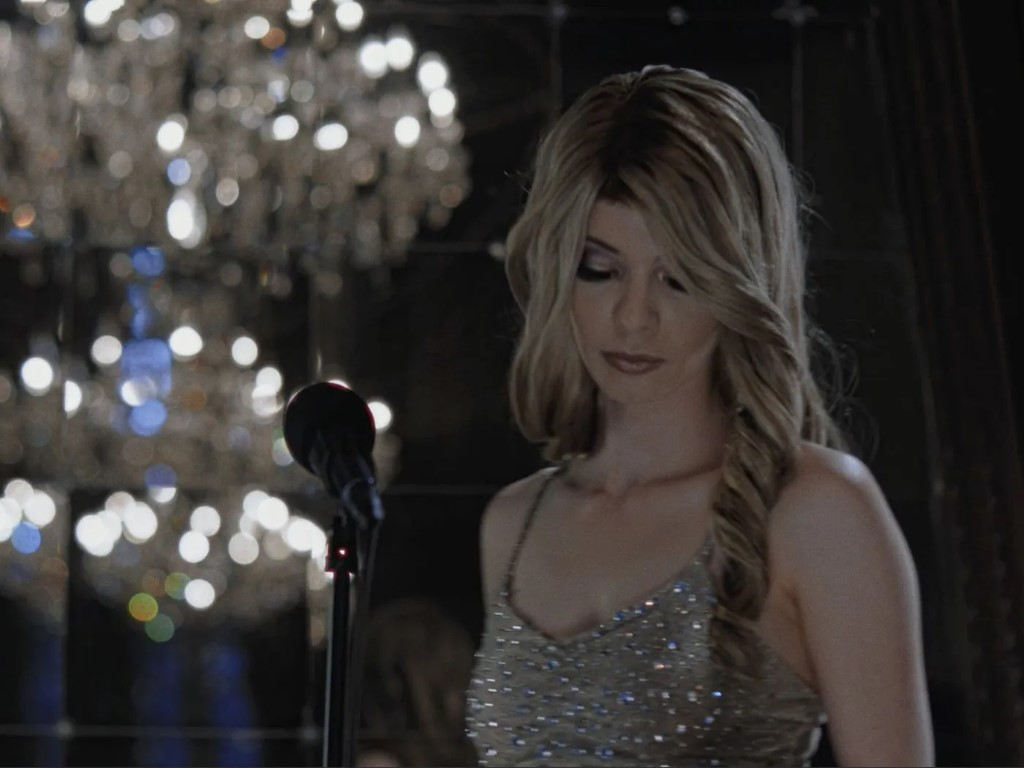
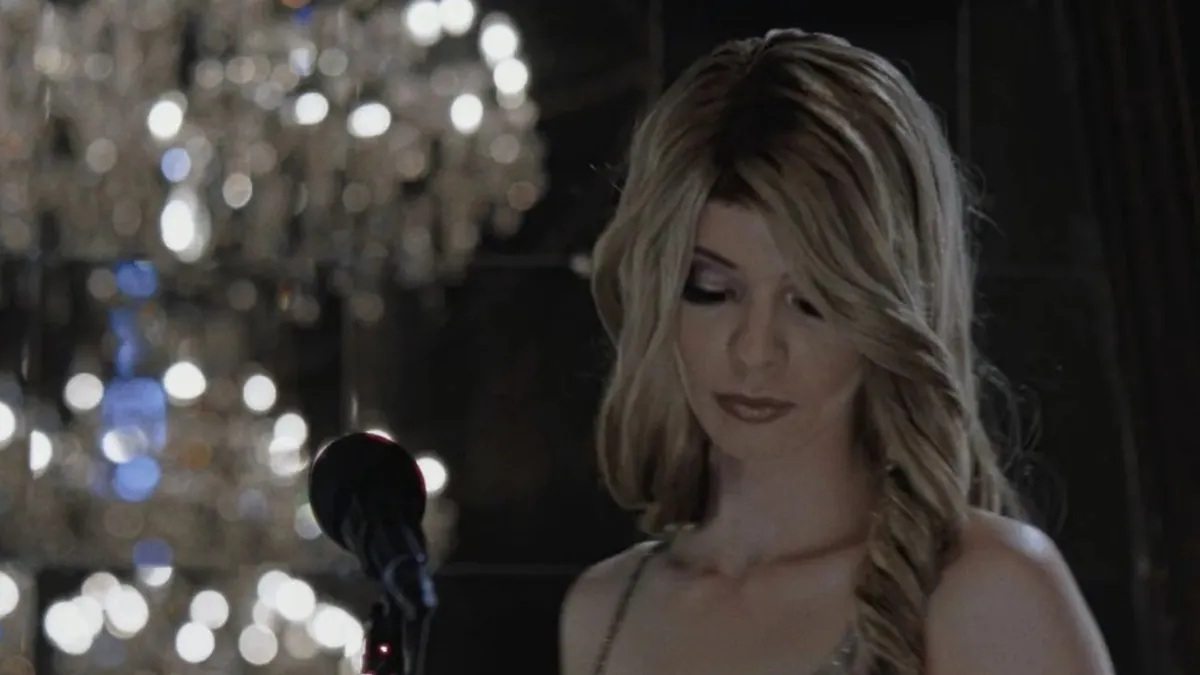
Update Posts “o-que-aconteceu-com-marissa-marcel”

diff --git a/content/post/o-que-aconteceu-com-marissa-marcel.md b/content/post/o-que-aconteceu-com-marissa-marcel.md
@@ -8,7 +8,7 @@ image: /images/marissa-marcel.webp
 ---
 Novas pistas sobre o desaparecimento da atriz Marissa Marcel surgem na internet. A atriz, desaparecida desde **1999**, prometia ter seu nome ao lado dos maiores astros do cinema global.
 
-![](/images/marissa-entrevista.webp)
+![](/images/marissa-interview.webp)
 
 De origem francesa, Marissa Marcel se mudou para Londres antes dos seus 18 anos buscando seu sonho de trabalhar como modelo. Seu imenso carisma em seu primeiro comercial, porém, garantiu à ela uma personagem em [Ambrosio](https://www.imdb.com/title/tt15173592/), adaptação do romance gótico [The Monk de M. G. Lewis](https://www.amazon.com.br/Monk-Matthew-Lewis/dp/0198704453) sob a ótica do renomado diretor americano **Arthur Fischer**.
 
